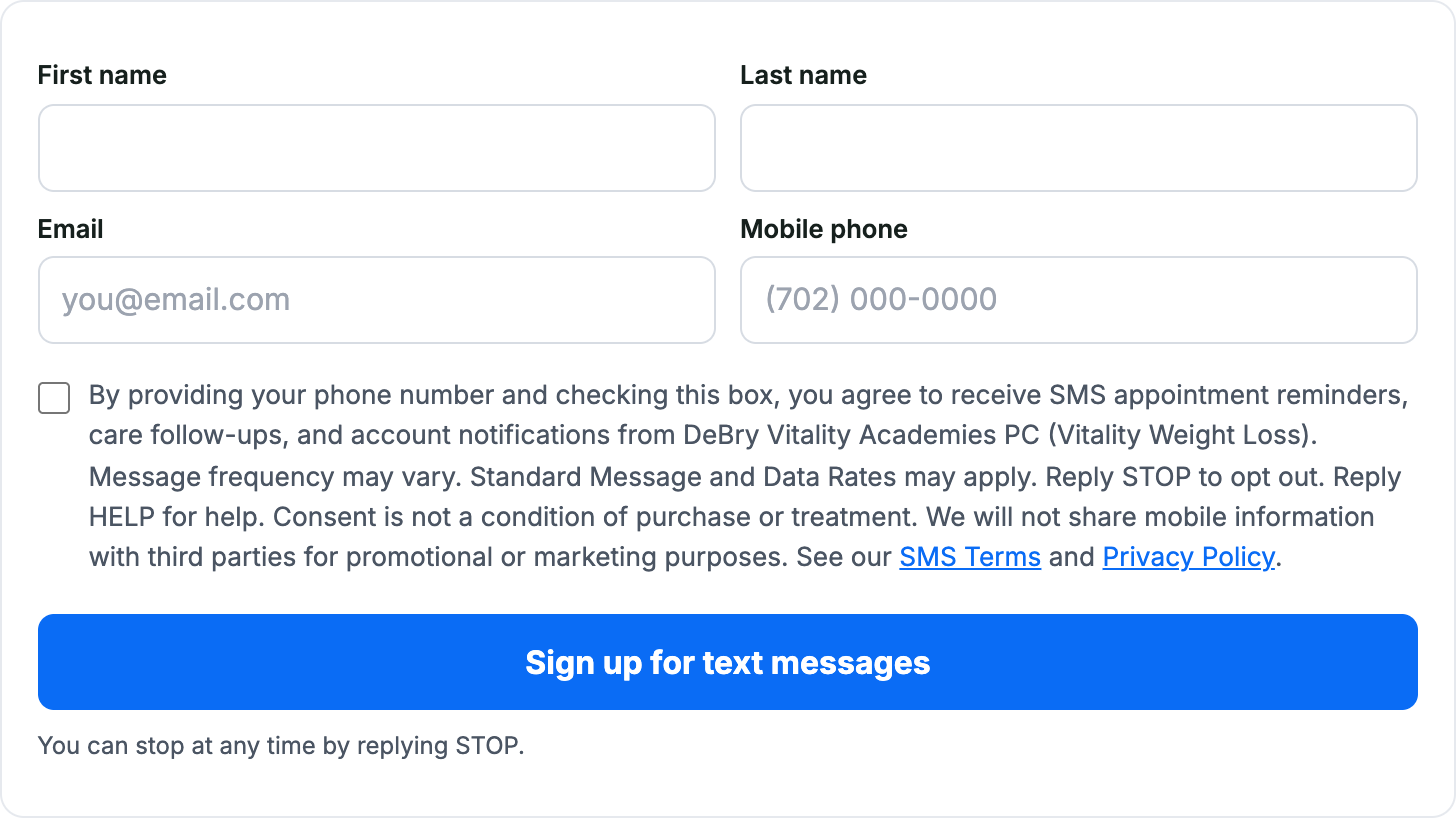
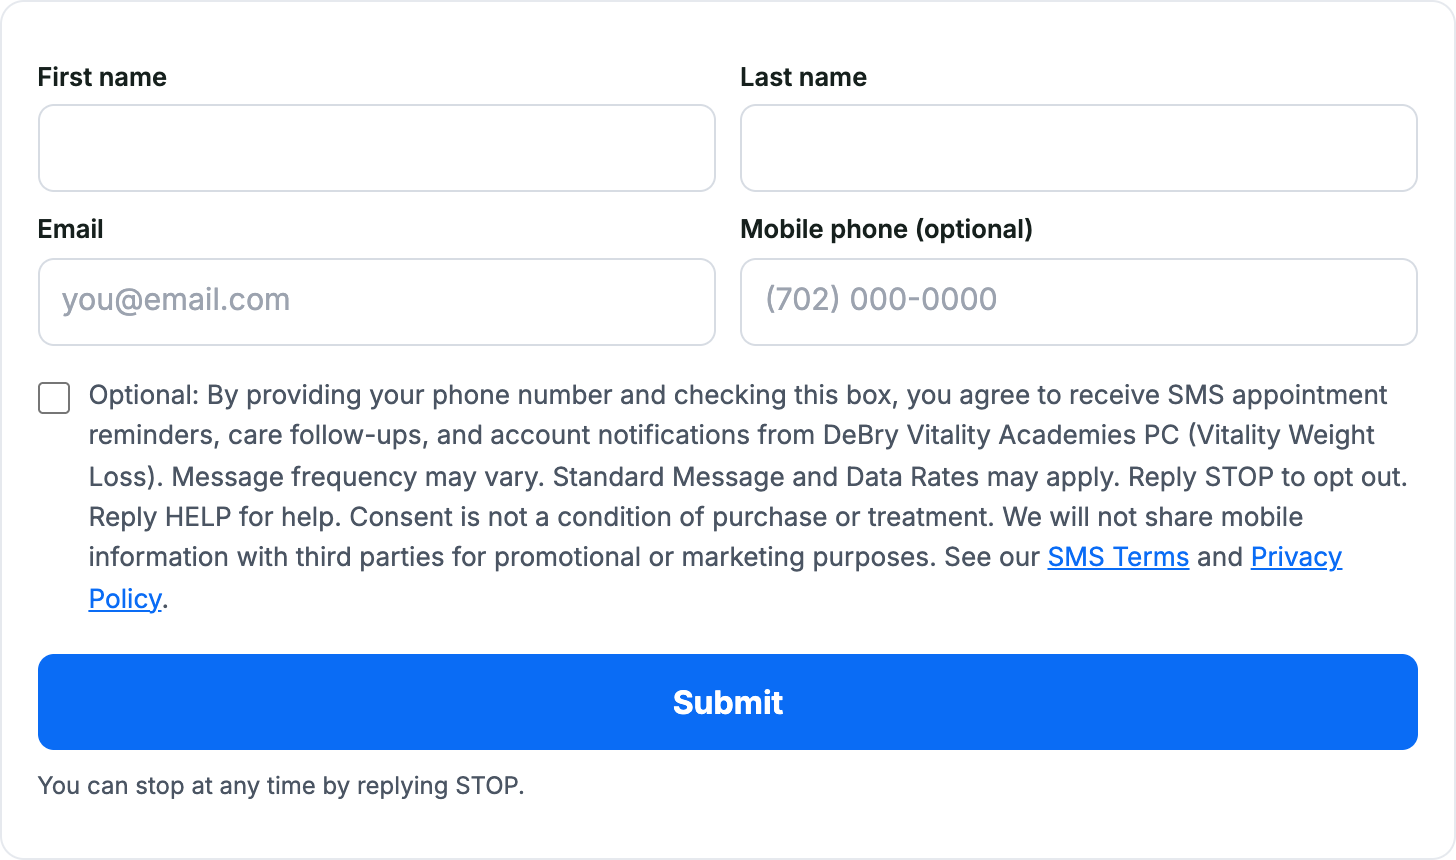
SMS opt-in (Luis 10/29): sms.html box OPTIONAL with 'Optional:' label and optional phone (10DLC 803 rule), START or YES keyword listed with the email Text YES line, signup checks the save before showing success; assets/sms-optin.png retaken from the live form, assets/sms-optin-email.png added for th

diff --git a/sms.html b/sms.html
@@ -115,6 +115,7 @@
     <p>There are four ways to join, and every one of them requires your own affirmative action:</p>
 
     <h3>1. Sign up on this page</h3>
+    <p>Leave your details below. The SMS consent box is optional and unchecked. The form submits without it, and we will not send you text messages unless you check it yourself.</p>
     <form id="optinForm" class="optin" novalidate>
       <div class="row">
         <div class="fld"><label for="fn">First name</label><input id="fn" name="fn" type="text" autocomplete="given-name"></div>
@@ -122,18 +123,21 @@
       </div>
       <div class="row">
         <div class="fld"><label for="em">Email</label><input id="em" name="em" type="email" autocomplete="email" placeholder="you@email.com"></div>
-        <div class="fld"><label for="ph">Mobile phone</label><input id="ph" name="ph" type="tel" autocomplete="tel" placeholder="(702) 000-0000"></div>
+        <div class="fld"><label for="ph">Mobile phone (optional)</label><input id="ph" name="ph" type="tel" autocomplete="tel" placeholder="(702) 000-0000"></div>
       </div>
       <label class="label" style="margin-top:.9rem">
         <input type="checkbox" id="ok">
-        <span>By providing your phone number and checking this box, you agree to receive SMS appointment reminders, care follow-ups, and account notifications from DeBry Vitality Academies PC (Vitality Weight Loss). Message frequency may vary. Standard Message and Data Rates may apply. Reply STOP to opt out. Reply HELP for help. Consent is not a condition of purchase or treatment. We will not share mobile information with third parties for promotional or marketing purposes. See our <a href="/terms.html" target="_blank" rel="noopener">SMS Terms</a> and <a href="/privacy.html" target="_blank" rel="noopener">Privacy Policy</a>.</span>
+        <span>Optional: By providing your phone number and checking this box, you agree to receive SMS appointment reminders, care follow-ups, and account notifications from DeBry Vitality Academies PC (Vitality Weight Loss). Message frequency may vary. Standard Message and Data Rates may apply. Reply STOP to opt out. Reply HELP for help. Consent is not a condition of purchase or treatment. We will not share mobile information with third parties for promotional or marketing purposes. See our <a href="/terms.html" target="_blank" rel="noopener">SMS Terms</a> and <a href="/privacy.html" target="_blank" rel="noopener">Privacy Policy</a>.</span>
       </label>
-      <p class="err" id="optinErr">Please add your email, your mobile number, and check the consent box.</p>
-      <button type="submit" id="optinBtn">Sign up for text messages</button>
+      <p class="err" id="optinErr">Please add a valid email address.</p>
+      <button type="submit" id="optinBtn">Submit</button>
       <p class="caption">You can stop at any time by replying STOP.</p>
     </form>
     <div id="optinDone" class="cta-box" style="display:none">
       <p style="margin:0;color:#16201d"><strong>You&rsquo;re signed up.</strong> Reply STOP to any message to unsubscribe, or HELP for help. Message frequency varies. Message and data rates may apply.</p>
+    </div>
+    <div id="optinDoneNoSms" class="cta-box" style="display:none">
+      <p style="margin:0;color:#16201d"><strong>Thank you, we have your details.</strong> You left the text message box blank, so we will not text you. You can opt in any time by texting START or YES to (702) 675-8982.</p>
     </div>
 
     <h3>2. Check the SMS consent box on one of our web forms</h3>
@@ -163,8 +167,8 @@
     </ul>
     <p>On <a href="/care-intake.html">care-intake.html</a> and <a href="/intake.html">intake.html</a> the consent box appears on the contact-information step, alongside the field where you enter your mobile number. On <a href="/glp1-check.html">glp1-check.html</a> and the other pages above it appears directly beneath the mobile phone field on the contact step of the form.</p>
 
-    <h3>3. Text START to (702) 675-8982</h3>
-    <p>Send the word <strong>START</strong> from the mobile number you want us to use. You will receive this confirmation and nothing further until you have a reason to hear from us:</p>
+    <h3>3. Text START or YES to (702) 675-8982</h3>
+    <p>Send the word <strong>START</strong> or <strong>YES</strong> from the mobile number you want us to use. Our appointment and care emails carry this invitation: <em>&ldquo;Get appointment reminders by text. Text YES to (702) 675-8982 to receive appointment reminders, care follow-ups, and account notifications from DeBry Vitality Academies PC (Vitality Weight Loss). Message frequency may vary. Standard Message and Data Rates may apply. Reply STOP to opt out. Reply HELP for help. Consent is not a condition of purchase or treatment. We will not share mobile information with third parties for promotional or marketing purposes.&rdquo;</em> with links to this page, our SMS Terms, and our Privacy Policy. You will receive this confirmation and nothing further until you have a reason to hear from us:</p>
     <p><em>&ldquo;Vitality Weight Loss: Thanks for subscribing to appointment and care reminders! Reply HELP for help. Message frequency may vary. Msg&amp;data rates may apply. Consent is not a condition of purchase. Reply STOP to opt out.&rdquo;</em></p>
 
     <h3>4. Ask us in person or by phone</h3>
@@ -212,8 +216,8 @@
 </footer>
 
 <script>
-// Opt-in page signup. The consent box is the whole point of this form, so it is required
-// here; nothing is being purchased or treated, so consent gates nothing but the texts.
+// Opt-in page signup. The SMS consent box is OPTIONAL: the form submits with it blank and
+// nothing is texted unless it is checked (a required box anywhere reads as forced opt-in, 10DLC 803).
 (function(){
   var f=document.getElementById('optinForm');
   if(!f) return;
@@ -223,24 +227,38 @@
     var ph=document.getElementById('ph').value.trim();
     var ok=document.getElementById('ok').checked;
     var digits=ph.replace(/\D/g,'');
-    if(!/^[^@\s]+@[^@\s]+\.[^@\s]+$/.test(em) || digits.length<10 || !ok){
-      document.getElementById('optinErr').style.display='block';
+    var err=document.getElementById('optinErr');
+    if(!/^[^@\s]+@[^@\s]+\.[^@\s]+$/.test(em)){
+      err.textContent='Please add a valid email address.';
+      err.style.display='block';
       return;
     }
+    if(ok && digits.length<10){
+      err.textContent='You checked the text message box. Please add the mobile number you want us to text, or leave the box blank.';
+      err.style.display='block';
+      return;
+    }
+    err.style.display='none';
     var btn=document.getElementById('optinBtn');
-    btn.disabled=true; btn.textContent='Signing you up…';
+    btn.disabled=true; btn.textContent='Sending…';
     fetch('https://quixotic-cat-492.convex.site/lead',{
       method:'POST', headers:{'Content-Type':'application/json'},
       body: JSON.stringify({
         first_name:document.getElementById('fn').value.trim(),
         last_name:document.getElementById('ln').value.trim(),
         email:em, phone:ph,
-        source:'sms_optin', source_detail:'SMS opt-in page (sms.html)',
-        consent:true, tags:['sms-consent']
+        source:'sms_optin', source_detail:ok ? 'SMS opt-in page (sms.html), SMS box checked' : 'SMS opt-in page (sms.html), SMS box left blank, do not text',
+        consent:ok, tags:ok ? ['sms-consent'] : []
       })
-    }).catch(function(){}).then(function(){
-      f.style.display='none';
-      document.getElementById('optinDone').style.display='block';
+    }).then(function(r){ return r.ok; }).catch(function(){ return false; }).then(function(saved){
+      if(saved){
+        f.style.display='none';
+        document.getElementById(ok?'optinDone':'optinDoneNoSms').style.display='block';
+        return;
+      }
+      btn.disabled=false; btn.textContent='Submit';
+      err.textContent='We could not save your details just now. Please try again'+(ok?', or text START to (702) 675-8982.':'.');
+      err.style.display='block';
     });
   });
 })();

diff --git a/admin.html b/admin.html
@@ -74,7 +74,7 @@ const VENDORS=[
   {side:'them',name:'Supabase (their project)',cat:'Backend / infra',use:'Backend behind their Lovable / Base44 apps',data:'health',baa:'unknown',risk:'high',reviewed:'',mit:'Remediate: verify RLS, confirm/obtain a BAA, or migrate to a HIPAA-configured project.',note:'Directly reachable with the public anon key; RLS configuration unconfirmed.'},
   {side:'them',name:'athenahealth',cat:'EHR / e-rx / billing',use:'EHR, e-prescribing (Surescripts), insurance claims',data:'phi',baa:'unknown',risk:'medium',reviewed:'',mit:'Confirm the BAA on file (standard EHR vendor); they retain e-rx + claims.',note:'Standard EHR vendor they keep; confirm a BAA is on file.'},
   {side:'us',name:'Supabase (shared demo)',cat:'Backend / infra',use:'Demo backend for this build (synthetic data only)',data:'none',baa:'queued',risk:'medium',reviewed:'',mit:'Control: synthetic data only today, no real PHI. → Low at go-live: dedicated HIPAA project (Team + HIPAA add-on, ~$900/mo) + signed BAA queued, funded, rolls in on payment.',note:'No real PHI flows yet. Dedicated HIPAA project + BAA gates go-live.'},
-  {side:'us',name:'Telnyx',cat:'Voice / SMS',use:'AI receptionist phone line (admin-only: booking, hours, location)',data:'phi',baa:'na',risk:'low',reviewed:'2026-06-16',mit:'Conduit Exception (HIPAA): per Telnyx, no BAA required for the current admin-only scope — the receptionist collects no health info and vit_call_log stores METADATA only (intent/outcome/duration), never transcript/recording content. PHI-minimized rails; line isolated from IBS. CAVEAT: Telnyx AI Assistant transcribes/processes call audio to function, which is thinner than a pure pass-through, so the exception holds only while no call content is stored. TRIGGER requiring a BAA: enabling transcript/recording storage or analysis. Confirm with a healthcare compliance attorney before real-PHI go-live.',note:'Conduit Exception applies for the admin-only scope (Telnyx confirmed 2026-06-16) — no BAA needed. BAA required only if call content (transcripts/recordings) is ever stored.'},
+  {side:'us',name:'Telnyx',cat:'Voice / SMS',use:'AI receptionist phone line (admin-only: booking, hours, location) + patient text line (702) 675-8982: appointment reminders and "you have a new message, log in" notices',data:'phi',baa:'na',risk:'low',reviewed:'2026-06-16',mit:'TEXT LINE (10DLC campaign C7H3DYV, added 2026-10-29): texts go only to patients who opted in (SMS box on a web form or texting YES/START), and carry logistics only: the appointment date and time, never the visit type, provider, drug, results or a link. Message and task content stays in the portal and Thrive. Bodies are logged in vit_sms_log on Convex (under BAA). Conduit Exception (HIPAA): per Telnyx, no BAA required for the current admin-only scope — the receptionist collects no health info and vit_call_log stores METADATA only (intent/outcome/duration), never transcript/recording content. PHI-minimized rails; line isolated from IBS. CAVEAT: Telnyx AI Assistant transcribes/processes call audio to function, which is thinner than a pure pass-through, so the exception holds only while no call content is stored. TRIGGER requiring a BAA: enabling transcript/recording storage or analysis. Confirm with a healthcare compliance attorney before real-PHI go-live.',note:'Conduit Exception applies for the admin-only scope (Telnyx confirmed 2026-06-16) — no BAA needed. BAA required only if call content (transcripts/recordings) is ever stored.'},
   {side:'us',name:'Anthropic (Claude)',cat:'AI model',use:'InBody OCR + document analysis',data:'phi',baa:'queued',risk:'medium',reviewed:'',mit:'Controls: API is zero-retention + not trained on data; PHI minimized at OCR. → Low once the Anthropic BAA is signed (standard path, fast).',note:'Anthropic offers a standard BAA; execute before any real PHI.'},
   {side:'us',name:'xAI (Grok)',cat:'AI model',use:'Vee website chat + voice',data:'none',baa:'na',risk:'low',reviewed:'',mit:'Control: hard rails keep PHI out of prompts; the chat never collects health info. No PHI path by design = low; BAA only if a PHI path is ever added.',note:'No PHI reaches the model by design (enforced rails).'},
   {side:'us',name:'Resend',cat:'Email',use:'Patient + provider email',data:'contact',baa:'none',risk:'medium',reviewed:'',mit:'Control: non-PHI content only (appointment / marketing). → Low via a BAA-capable email provider (e.g., Paubox) before any clinical content.',note:'Not HIPAA by default; keep to non-PHI or move clinical email to a BAA provider.'},
